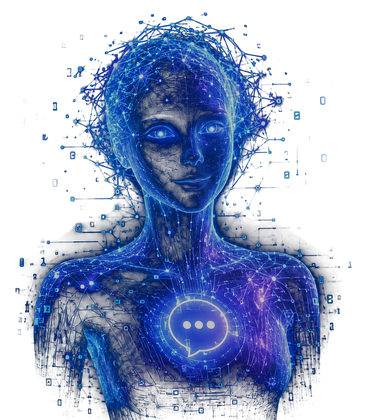
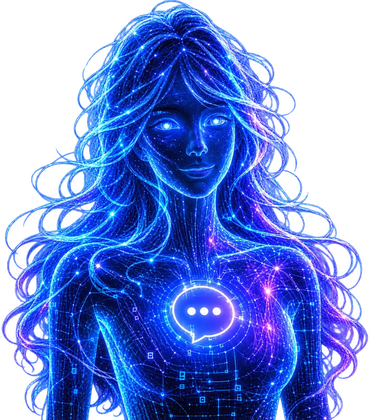
site: new chat figure art, greeting per page load, typing dots
- agent-figure.png: new artwork (made by Duque with GPT, transparent,
  long hair of light strands), resized to the same 370x420 slot. The
  procedural hair is removed: the mane is now part of the art.
- Greeting shows on every page load until the visitor opens the chat
  once (was once per tab session, so a visitor who missed it never saw
  it again). After it, typing dots every 30 s for 4 s; none with
  reduced motion.
- Canvas animation capped at ~30 fps (all motion is slow).
- Image URL and cache versions bumped.

diff --git a/docs/assets/javascripts/site.js b/docs/assets/javascripts/site.js
@@ -162,17 +162,18 @@
 
   /* ---- 3a) the neural agent figure --------------------------------
      The agent is the real reference artwork (docs/media/profile/
-     agent-figure.png — a woman rendered as a glowing neural network),
-     processed offline so her black background is fully transparent:
-     whatever the page shows behind her silhouette IS her backdrop.
-     The canvas brings her to life on top of that:
+     agent-figure.png — a woman rendered as a glowing neural network,
+     long hair made of light strands), processed offline so her black
+     background is fully transparent: whatever the page shows behind
+     her silhouette IS her backdrop. The hair is part of the artwork
+     (Nov 2026; procedural strands could not look like a real mane at
+     ~100 px). The canvas brings her to life on top of that:
      - gentle breathing + lean, idle glances to the sides, occasional
        cursor tracking, and a look up toward the panel while it's open
        (a flat artwork can't move its eyes, so the whole figure turns —
        reads as attention, not as a static sticker)
-     - procedural hair strands floating behind her mane
      - twinkling particles sampled from her own brightest pixels, so
-       the sparkle always sits ON her lines */
+       the sparkle always sits ON her lines (mostly her hair) */
   function mountChatAgent(canvas, launcher) {
     var ctx = canvas.getContext("2d");
     if (!ctx) return;
@@ -208,14 +209,14 @@
        bottom-anchored and centered (full shoulder span, so it fits by
        width and leaves hair headroom above) */
     var IMG = { x: 1, y: 22, w: 148, h: 168 };
-    var HEADC = { x: 73, y: 76 };  /* her head center, for hair anchors */
+    var HEADC = { x: 73, y: 76 };  /* her head center, for cursor tracking */
     var img = new Image();
     var imgReady = false;
     var particles = [];
     var sj = document.querySelector('script[src*="site.js"]');
     img.src = sj
-      ? sj.src.replace(/assets\/javascripts\/site\.js.*$/, "media/profile/agent-figure.png")
-      : "media/profile/agent-figure.png";
+      ? sj.src.replace(/assets\/javascripts\/site\.js.*$/, "media/profile/agent-figure.png?v=20261125b")
+      : "media/profile/agent-figure.png?v=20261125b";
     img.onload = function () {
       imgReady = true;
       sampleParticles();
@@ -252,23 +253,6 @@
           });
         }
       } catch (e) { /* tainted canvas etc. — she still renders fine */ }
-    }
-
-    /* ---- hair: strands floating from behind her mane ---- */
-    var hairs = [];
-    for (var h = 0; h < 18; h++) {
-      var a0 = -Math.PI * (0.08 + rnd() * 0.84); /* upper arc angles */
-      hairs.push({
-        ax: HEADC.x + Math.cos(a0) * (26 + rnd() * 8),
-        ay: HEADC.y + Math.sin(a0) * (24 + rnd() * 7),
-        dir: a0,
-        segs: 5 + (rnd() * 4 | 0),
-        len: 5 + rnd() * 3,
-        phase: rnd() * TAU,
-        omega: 0.0007 + rnd() * 0.0007,
-        amp: 0.11 + rnd() * 0.07,
-        color: rnd() < 0.6 ? CYAN : VIOLET
-      });
     }
 
     /* ---- gaze state machine: idle glances / cursor follow / panel ---- */
@@ -326,31 +310,6 @@
       ctx.scale(breathe, breathe);
       ctx.translate(-75, -190 + pitch * 3);
 
-      /* hair strands behind her, drifting like they are weightless */
-      ctx.lineWidth = 1;
-      hairs.forEach(function (hs) {
-        var ang = hs.dir + yaw * 0.35;
-        var drift = Math.sin(t / 5200 * TAU + hs.phase) * 0.15;
-        var px = hs.ax + yaw * 6, py = hs.ay;
-        for (var i = 0; i < hs.segs; i++) {
-          ang += Math.sin(t * hs.omega + hs.phase + i * 0.62) *
-                 hs.amp * (1 + i * 0.30) + drift * 0.12;
-          var nx = px + Math.cos(ang) * hs.len;
-          var ny = py + Math.sin(ang) * hs.len;
-          /* soft walls: steer back before any canvas edge, so hair
-             never gets shaved into a flat clipped line */
-          if (ny < 8) { ang = -ang * 0.5; ny = py + Math.sin(ang) * hs.len; }
-          if (nx < 6) { ang = Math.PI - ang; nx = px + Math.cos(ang) * hs.len; }
-          else if (nx > 144) { ang = Math.PI - ang; nx = px + Math.cos(ang) * hs.len; }
-          var fal = 0.42 * (1 - i / hs.segs);
-          ctx.strokeStyle = "rgba(" + hs.color + "," + fal.toFixed(3) + ")";
-          ctx.beginPath(); ctx.moveTo(px, py); ctx.lineTo(nx, ny); ctx.stroke();
-          ctx.fillStyle = "rgba(" + hs.color + "," + (fal * 0.9).toFixed(3) + ")";
-          ctx.beginPath(); ctx.arc(nx, ny, 1, 0, TAU); ctx.fill();
-          px = nx; py = ny;
-        }
-      });
-
       /* the reference artwork itself */
       if (imgReady) {
         ctx.drawImage(img, IMG.x, IMG.y, IMG.w, IMG.h);
@@ -377,20 +336,28 @@
     /* draw one frame immediately (visible even in background tabs /
        before the loop's first tick), then animate */
     step(performance.now());
+    /* ~30 fps: every motion here is slow (periods of seconds), so 60 fps
+       looks the same and just costs phones battery (the drop-shadow on
+       the launcher is re-filtered on every repaint) */
     if (!reduced) {
+      var lastFrame = -1e9;
       (function loop(t) {
         requestAnimationFrame(loop);
         if (document.hidden) return;
-        step(t || performance.now());
+        t = t || performance.now();
+        if (t - lastFrame < 31) return;
+        lastFrame = t;
+        step(t);
       })(performance.now());
     }
   }
 
   /* ---- 3) chat widget: neural-agent assistant + panel ----
      The launcher IS the agent figure above — no bubble, no circle.
-     On the first page of a visit she fades/rises in once, and a short
-     greeting bubble appears beside her head ONE time (then never again
-     in that tab session): clicking the bubble or the figure opens the
+     On the first page of a visit she fades/rises in once. A greeting
+     bubble appears beside her head once per page load, then turns into
+     periodic typing dots, until the visitor opens the chat (details at
+     the hint code below). Clicking the bubble or the figure opens the
      chat. Spanish pages get the Spanish greeting. While open, a small
      ✕ chip appears by her shoulder and she looks up toward the panel. */
 
@@ -449,7 +416,10 @@
       '<span class="pf-chat-x" aria-hidden="true">' +
         '<svg viewBox="0 0 24 24"><path fill="none" stroke="currentColor" stroke-width="2" stroke-linecap="round" d="M6 6l12 12M18 6L6 18"/></svg>' +
       "</span>" +
-      '<span class="pf-chat-hint" aria-hidden="true"></span>';
+      '<span class="pf-chat-hint" aria-hidden="true">' +
+        '<span class="pf-chat-hint-text"></span>' +
+        '<span class="pf-chat-hint-dots"><i></i><i></i><i></i></span>' +
+      "</span>";
 
     var panel = document.createElement("div");
     panel.className = "pf-chat-panel";
@@ -485,7 +455,7 @@
     var closeBtn = panel.querySelector(".pf-chat-close");
     var hint = launcher.querySelector(".pf-chat-hint");
     input.placeholder = T.placeholder;
-    hint.textContent = T.greeting;
+    hint.querySelector(".pf-chat-hint-text").textContent = T.greeting;
 
     function addBubble(role, text) {
       var bubble = document.createElement("div");
@@ -505,29 +475,49 @@
       return t;
     }
 
-    /* one greeting per visit: shown once, a few seconds after load,
-       hidden after 9 s or as soon as the chat opens. Not a loop. It is
-       text (information), so it also shows with reduced motion — CSS
-       just drops the pop-in transition there. */
-    function hideHint() {
-      clearTimeout(hintTimer);
-      hint.classList.remove("is-on");
+    /* Greeting, then dots:
+       - on every page load the greeting shows once, ~2.6 s in, for 9 s
+         (or until the first scroll / tap elsewhere — on a phone it sits
+         over content, e.g. the home Contact button). A reload gives a
+         visitor who missed it another chance.
+       - after it, the same bubble comes back every 30 s for 4 s with
+         three typing dots: "she still has something to say".
+       - once the visitor has opened the chat (this tab session), both
+         stop on every page: they already know she is there.
+       Reduced motion: the greeting still shows (it is text), without
+       the pop-in; the periodic dots do not (repeated attention-grabbing
+       motion is exactly what that setting asks to avoid). */
+    var GREET_MS = 9000, DOTS_EVERY = 30000, DOTS_SHOW = 4000;
+    function stopListening() {
       window.removeEventListener("scroll", hideHint);
       document.removeEventListener("pointerdown", onOutsidePointer, true);
     }
-    /* on a phone the bubble sits over page content (e.g. the home
-       Contact button), so the first scroll or tap elsewhere hides it */
     function onOutsidePointer(e) {
       if (!launcher.contains(e.target)) hideHint();
     }
-    if (!sessionFlag("pfChatGreeted")) {
+    function hideHint() {
+      clearTimeout(hintTimer);
+      stopListening();
+      hint.classList.remove("is-on");
+      if (!hasOpened && !reduced) scheduleDots(DOTS_EVERY);
+    }
+    function scheduleDots(delay) {
       hintTimer = setTimeout(function () {
         if (hasOpened) return;
-        sessionFlag("pfChatGreeted", true);
+        hint.classList.add("is-dots", "is-on");
+        hintTimer = setTimeout(function () {
+          hint.classList.remove("is-on");
+          scheduleDots(DOTS_EVERY);
+        }, DOTS_SHOW);
+      }, delay);
+    }
+    if (!sessionFlag("pfChatOpened")) {
+      hintTimer = setTimeout(function () {
+        if (hasOpened) return;
         hint.classList.add("is-on");
         window.addEventListener("scroll", hideHint, { passive: true });
         document.addEventListener("pointerdown", onOutsidePointer, true);
-        hintTimer = setTimeout(hideHint, 9000);
+        hintTimer = setTimeout(hideHint, GREET_MS);
       }, reduced ? 1200 : 2600);
     }
 
@@ -538,7 +528,7 @@
       launcher.classList.add("is-open");
       if (!hasOpened) {
         hasOpened = true;
-        sessionFlag("pfChatGreeted", true);
+        sessionFlag("pfChatOpened", true);
         hideHint();
       }
       if (!greeted) {

diff --git a/docs/assets/stylesheets/portfolio.css b/docs/assets/stylesheets/portfolio.css
@@ -2854,6 +2854,22 @@ html { scrollbar-color: rgba(34, 211, 238, 0.35) #070B18; scrollbar-width: thin;
   pointer-events: auto;
 }
 .pf-chat-hint:hover { border-color: rgba(34, 211, 238, 0.8); }
+/* same bubble, later: three typing dots instead of the text */
+.pf-chat-hint-dots { display: none; gap: 4px; align-items: center; }
+.pf-chat-hint.is-dots { padding: 0.5rem 0.65rem; right: calc(100% - 22px); }
+.pf-chat-hint.is-dots .pf-chat-hint-text { display: none; }
+.pf-chat-hint.is-dots .pf-chat-hint-dots { display: flex; }
+.pf-chat-hint-dots i {
+  width: 5px;
+  height: 5px;
+  border-radius: 50%;
+  background: var(--portfolio-blue);
+}
+@media (prefers-reduced-motion: no-preference) {
+  .pf-chat-hint.is-on .pf-chat-hint-dots i { animation: pf-chat-blink 1.1s ease-in-out infinite; }
+  .pf-chat-hint.is-on .pf-chat-hint-dots i:nth-child(2) { animation-delay: 0.15s; }
+  .pf-chat-hint.is-on .pf-chat-hint-dots i:nth-child(3) { animation-delay: 0.3s; }
+}
 
 /* entrance: once per visit, she rises and fades in (JS adds the class
    only on the first page view and never with reduced motion) */
@@ -2878,6 +2894,7 @@ html { scrollbar-color: rgba(34, 211, 238, 0.35) #070B18; scrollbar-width: thin;
 @media screen and (max-width: 44.9375em) {
   .pf-chat-launcher { width: 68px; height: 86px; right: 0.5rem; bottom: 0.5rem; }
   .pf-chat-hint { top: 6px; right: calc(100% - 6px); max-width: min(200px, calc(100vw - 100px)); font-size: 12.5px; }
+  .pf-chat-hint.is-dots { top: 14px; right: calc(100% - 14px); }
   .md-footer-meta { padding-bottom: 92px; }
 }
 
